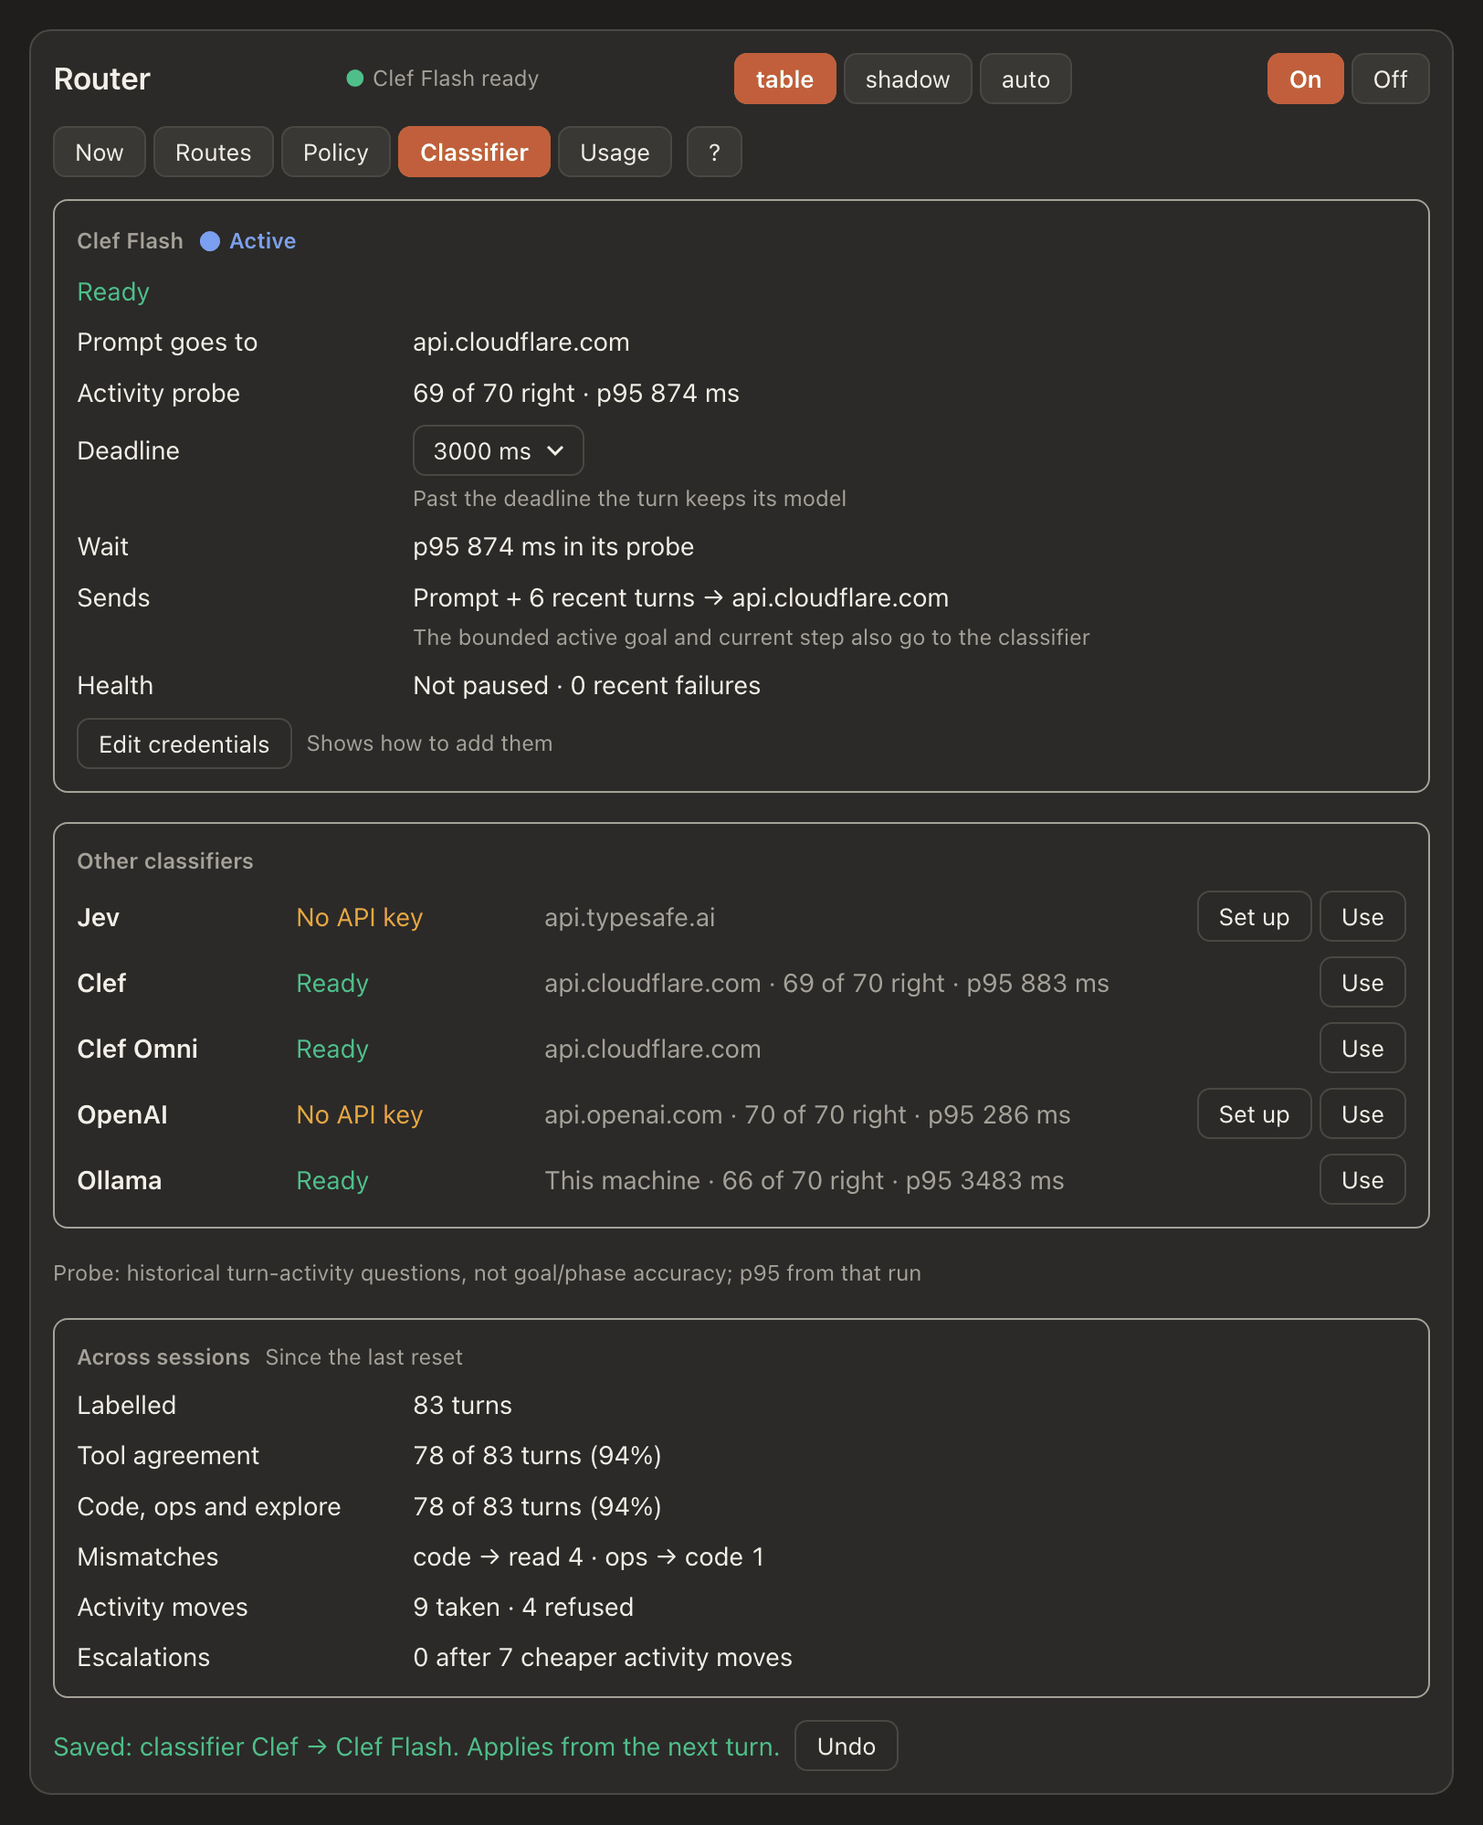
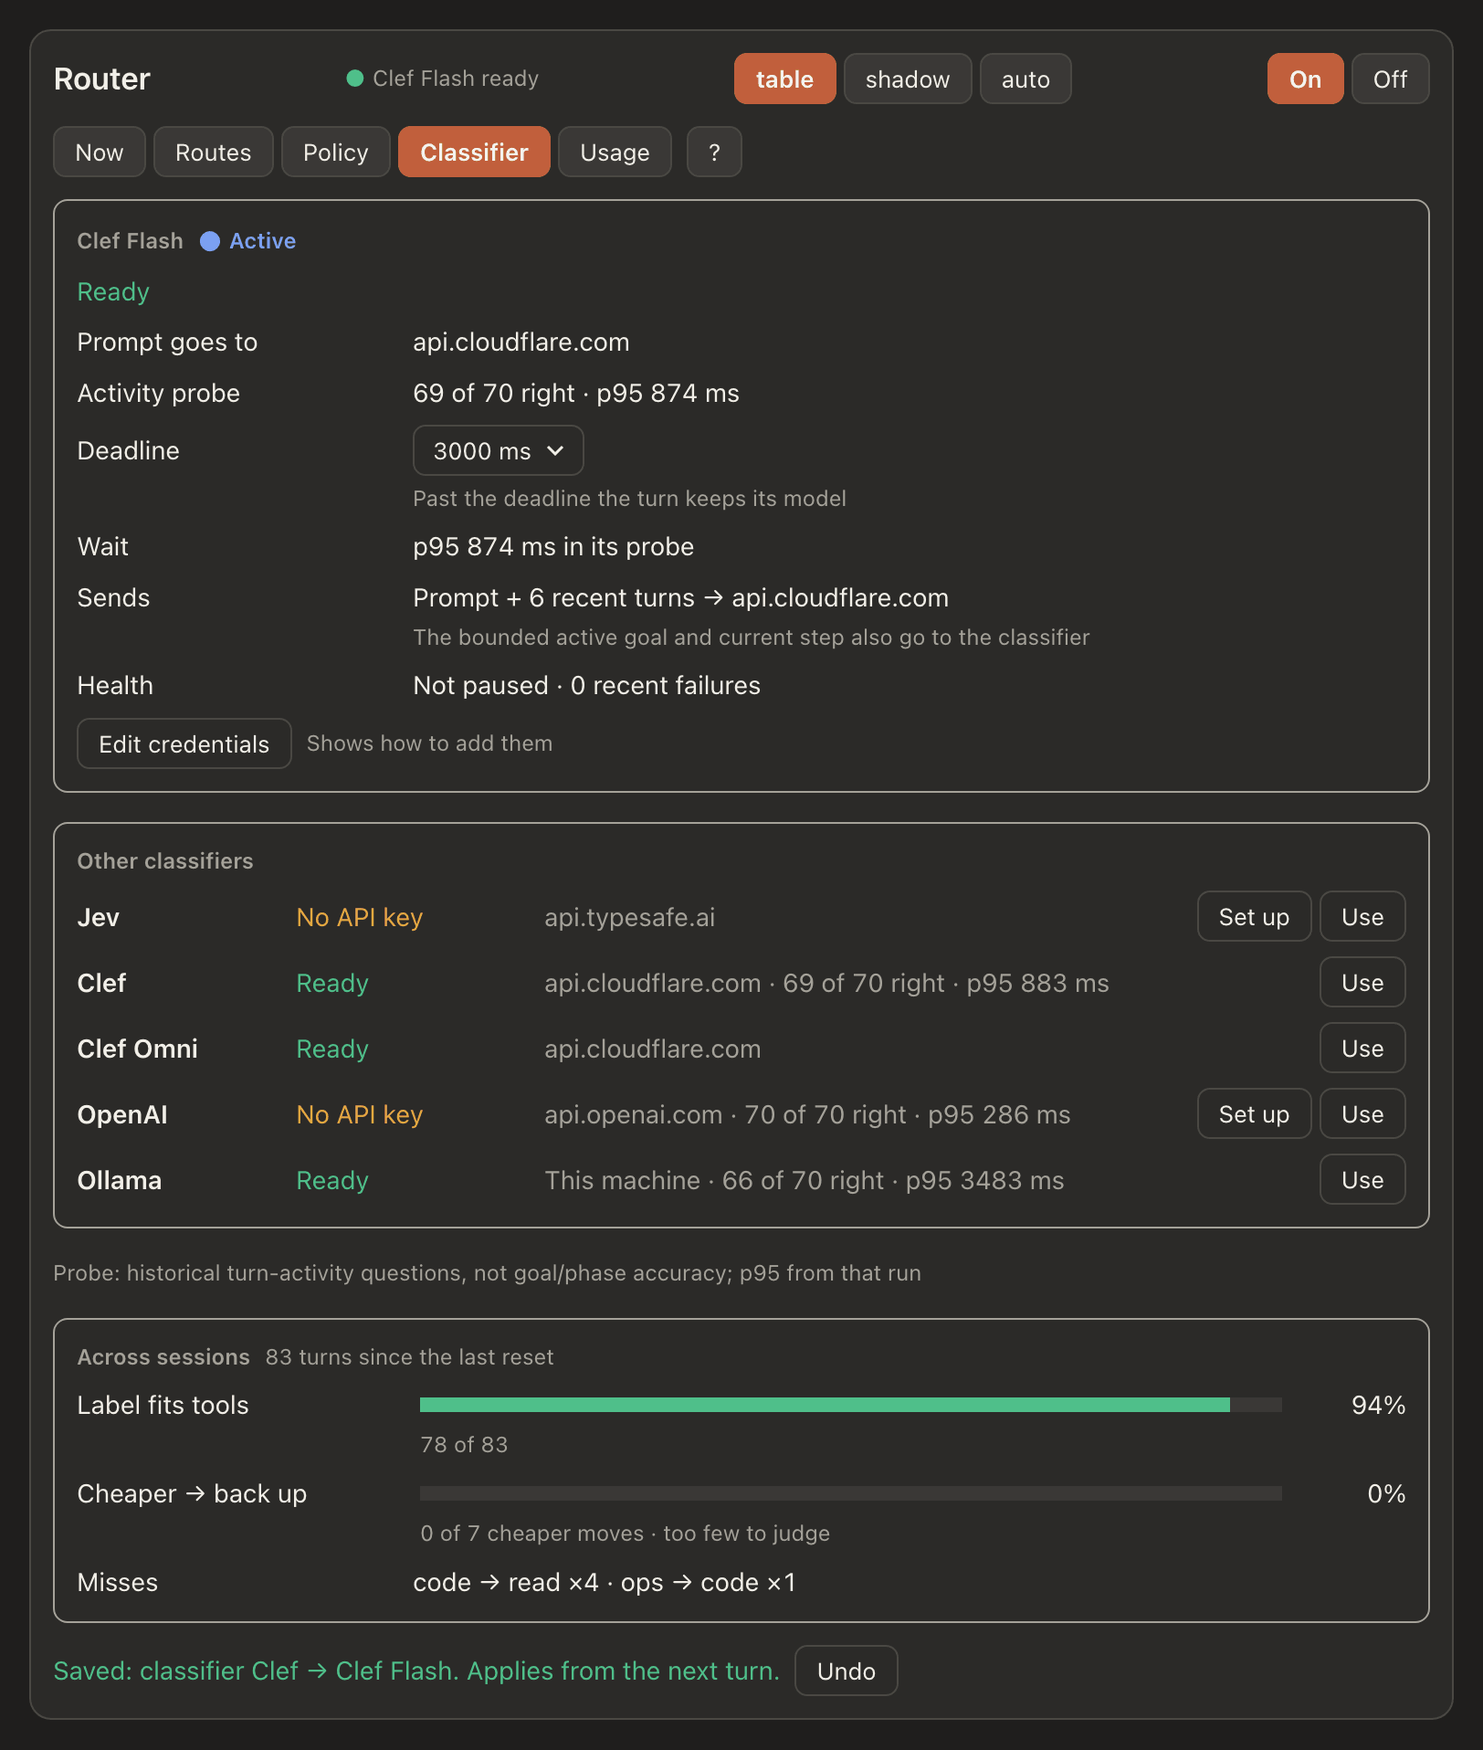
docs: describe the Across sessions bars
The guides and pictures named rows the pane no longer draws, and the code/ops/explore agreement that plan section 11 tracks is now read from the /router text.

diff --git a/docs/user-guide.md b/docs/user-guide.md
@@ -177,7 +177,7 @@ What each tab shows:
 
   <picture>
     <source media="(prefers-color-scheme: dark)" srcset="images/desktop-pane-classifier-dark.png">
-    <img src="images/desktop-pane-classifier-light.png" alt="The Classifier tab: a card for the active classifier with its host, deadline and health, a row per other classifier with Set up and Use buttons, and the agreement counts across sessions." width="560">
+    <img src="images/desktop-pane-classifier-light.png" alt="The Classifier tab: a card for the active classifier with its host, deadline and health, a row per other classifier with Set up and Use buttons, and bars across sessions for how often the label fits the tools and how often a cheaper move went back up." width="560">
   </picture>
 
 - **Usage**: period buttons, then Summary, Trend, Breakdown, Worth a look, Subagents, About these numbers and **Delete history**.
@@ -486,9 +486,15 @@ Not yet checked live: what `error_details` holds on a real failure (when it is p
 - **Now**: the first line of **NEXT TURN** names the classifier's activity with its share and the next answer, such as `code 84%  debug 8%`. An `uncertain` answer is shown dim: it applies no activity. In `on`, a line under it names the cell when the route is an override, such as `code at low runs on Sonnet 5.5 · high · tier route Haiku 5.5 · high`, and **why** reads `↑ code` or `↓ ops` when the activity moved the route; a refused move, a hold, or a tier change keeps its reason.
 - **Routes**: see [Edit routes and policy](#edit-routes-and-policy). Each activity is a row of the grid, and a cell shows the model the activity runs at that tier.
 - **Usage**: **BY** with **Activity** lists the period's replies, cost and difference against no routing per activity, and `mostly on`, the route most of its replies used, such as `Sonnet 5.5 · high`; opening a row lists its routes. Replies whose turn had no applied activity count as `no activity`. The **cache rebuilds** row counts the route switches by tier and by activity together. See [Compare routing with no routing](#compare-routing-with-no-routing).
-- **Classifier**: **THIS SESSION** gives **Tool compatibility (not accuracy)**, how often the tools fit the classifier's goal (see [Evaluation](evaluation.md#tool-agreement)).
+- **Classifier**: **Label fits tools** shows how often the tools a turn used fit the classifier's goal: a check of compatibility, not accuracy (see [Evaluation](evaluation.md#tool-agreement)). Before there are counts across sessions, **THIS SESSION** gives this session's figure as **Tool compatibility (not accuracy)**.
 
-On the **Classifier** tab, **ACROSS SESSIONS · since the last reset** shows the counts kept across sessions, once there are any: the turns labelled from their tools, **Tool compatibility** over them, **Code/ops/explore**, the same agreement over the turns the classifier answered `code`, `ops` or `explore` (omitted when there are none), the two most frequent mismatches as `predicted → observed count` (`code → read 3`), **Activity moves**, the moves to another route inside a tier, taken and refused for any reason, **Escalations**, such as `after a cheaper activity move: 1 in 12 moves`, the tool-error escalations that followed a move to a cheaper route in `on` while the turns stayed on it in `on` (turning routing off, a turn with routing off, or a turn in `off` ends the watch, a pin in between does not, and an escalation the credits cap held counts). Each of these lines appears only when it has data. The active classifier's p95 wait across sessions shows on its **Deadline** line instead (not recorded with activity routing `off`). This agreement compares the classifier's raw answer, so it can differ from the session's. The pane reads these counts when the session starts and when it opens, and adds this session's turns as they finish; another session's new latency and escalation readings show the next time the pane opens. **Delete history** on the Usage tab deletes these counts with the usage and subagent records, for this session and across sessions.
+On the **Classifier** tab, **ACROSS SESSIONS** shows the counts kept since the last reset, once there are any. Its heading says how many turns were labelled from their tools, such as `22 turns since the last reset`, and below it:
+
+- **Label fits tools**: the share of the turns the classifier answered with an activity whose tools fit it, as a bar, such as `80%  16 of 20 · this session 86%`. It compares the classifier's raw answer, so it can differ from this session's figure, shown once this session has a labelled turn. Green from 80%, yellow from 60%, red below.
+- **Cheaper → back up**: how many moves to a cheaper activity route in `on` were followed by a tool-error escalation while the turns stayed on that route in `on`, such as `8%  1 of 12 cheaper moves`. Turning routing off, a turn with routing off, or a turn in `off` ends the watch, a pin in between does not, and an escalation the credits cap held counts. Green up to 10%, yellow up to 25%, red above.
+- **Misses**: the two most frequent mismatches as `predicted → observed ×count` (`code → read ×3`).
+
+A bar with fewer than 10 turns or moves counted is grey and says `too few to judge`. Each row appears only when it has data. The active classifier's p95 wait across sessions shows on its **Deadline** line instead (not recorded with activity routing `off`). The pane reads these counts when the session starts and when it opens, and adds this session's turns as they finish; another session's new latency and escalation readings show the next time the pane opens. **Delete history** on the Usage tab deletes these counts with the usage and subagent records, for this session and across sessions.
 
 `/router` without a UI surface distinguishes `Goal: code (95%)`, `Phase: verify` and `Route activity: ops`, followed by the resolved route. It labels tool compatibility explicitly as not accuracy. Goal-contract counters start a separate series; pre-change turn-label counters remain stored but are excluded until **Delete history** removes them. It also prints the session in the band's words, such as `Session: ≈$6.40 API estimate · −$1.84 (−22%) vs Opus 5.5 ≈$8.24 · 64 replies`, after a `Plan: 5h 48% · 7d 43%` line on a Claude plan.
 

diff --git a/docs/native-router.md b/docs/native-router.md
@@ -53,7 +53,7 @@ In the terminal, the status band is one line above the prompt: a tier meter, the
 | Session (Now)                 | This session's total, main thread and subagents, labelled `API estimate` with `≈` for every billing product (configured rates, not an invoice or measured quota use), its difference against no routing and what no routing would cost, the main thread and the subagents as bars, and every main-conversation reply as a strip colored by tier, pairs of cells merging past 48 cells or on a narrow pane. The two-row band and `/router` show the same numbers.                                                                                                                                                          |
 | Routing vs no routing (Usage) | For a period (this session, today, 7 or 30 days, this month, or all), one table that adds up: the main thread against the same tokens on your model, the model `/model` selected at the session effort when each reply ran, with its cheaper-model saving, stronger-model cost and cache rebuilds; the subagents against Claude Code's picks; the total against no routing. The running turn's replies are included. Below 10 main-thread replies, a shown difference gets a note such as `3 replies so far: one model switch can still move this a lot`. Output length is held the same; answer quality is not measured. |
 | Breakdown (Usage)             | The period's replies, cost and difference against no routing by activity, model or tier, each row opening to its routes or activities; the cost per hour, day or week, or **What if**, the same tokens on each model alone; from 20 replies, the cells worth a look, linked to Routes or Policy.                                                                                                                                                                                                                                                                                                                          |
-| Across sessions (Classifier)  | The counts kept since the last reset: labelled turns, tool agreement on the classifier's raw answer, overall and for `code`, `ops` and `explore`, the two largest mismatches, activity moves inside a tier taken and refused, and escalations after a cheaper activity move. The active classifier's p95 latency shows on its **Deadline** line. `/router` text shows the agreement.                                                                                                                                                                                                                                      |
+| Across sessions (Classifier)  | The counts kept since the last reset, with the labelled turns in the heading: bars for how often the tools fit the classifier's raw answer and how often a cheaper activity move was followed by an escalation, each coloured by its verdict (grey below 10 counted), and the two largest mismatches. The active classifier's p95 latency shows on its **Deadline** line. `/router` text shows the agreement, also for `code`, `ops` and `explore`.                                                                                                                                                                       |
 | Context gauge                 | Maximum available observed and local estimated context, compared with the window of the model that runs next. The fit rule keeps a route only while the context fills at most 80% of its window.                                                                                                                                                                                                                                                                                                                                                                                                                          |
 | Observed / estimated input    | Under **details** on Now: Claude's local context reading and the router's best current context estimate. `unknown` blocks a move to a smaller window.                                                                                                                                                                                                                                                                                                                                                                                                                                                                     |
 | Cache reuse                   | Last response's cache-read tokens divided by its reported input counters.                                                                                                                                                                                                                                                                                                                                                                                                                                                                                                                                                 |

diff --git a/docs/evaluation.md b/docs/evaluation.md
@@ -382,7 +382,7 @@ The script writes aggregate counts, reason histograms, route transitions, and sh
 
 Goal/phase routing has no measured answer-quality or savings result. The activity contract changed from a turn's result to a task goal, so older goal/phase and tool-compatibility counts cannot be compared as one accuracy series. The results below are historical turn-label evidence, not evaluation of the new contract. The replay above predates it and covers tiers only. It is `on` by default since 1.7, with defaults chosen from Anthropic's published benchmarks and a list-price replay of one developer's sessions; [Activity routing](activity-routing.md#what-the-estimates-mean) gives that replay and its limits. The pane counts turns, requests, switches, and the turns `on` would route differently, with a configured list-price estimate of those turns' next requests, not a measured saving. Two checks look at the classifier's activity label.
 
-The figures plan §11 tracks (tool agreement of at least 80% on `code` against `ops` and `explore`, Jev p95 latency of at most 450 ms, at most 1 tool-error escalation in 10 cheaper activity moves, the number of activity switches) are read from the Classifier tab's **ACROSS SESSIONS** block, which shows the counts kept since the last reset: **Code/ops/explore** for the tool agreement on turns the classifier answered `code`, `ops` or `explore`, **Tool compatibility** and **Mismatch** for all of them, **Activity moves** for moves inside a tier taken and refused (a refusal by a hold or the credits cap included), **Escalations** for the tool-error escalations that followed a cheaper activity move in `on` while the turns stayed on its route in `on` (turning routing off, a turn with routing off, or a turn in `off` ends the watch, a pin in between does not, and an escalation the credits cap held counts), **Unpriced** for the routed replies the usage record left out, by cause: no usage in the reply, a model without a configured price, an unknown cache lifetime, or a failed comparison. Before 1.16 those replies were dropped without a count, so usage covered only the priced part of the routed traffic, and a session whose replies were all unpriced left no usage record at all. The active classifier's p95 wait is on its **Deadline** line on the same tab, above that block. Latency is kept in fixed buckets, so the p95 reads as a bound (`≤ 350 ms`); it is the wait for the classifier's answer, transient retries included, without the routing after it, so it compares with the probe's p95 below, and is not recorded with activity routing `off`. `/router` without a UI surface prints both agreements. The underlying counts are the per-session `activity:goals:v1:<session id>` and `activity:metrics:v1:<session id>` records described in [Architecture](architecture.md).
+The figures plan §11 tracks (tool agreement of at least 80% on `code` against `ops` and `explore`, Jev p95 latency of at most 450 ms, at most 1 tool-error escalation in 10 cheaper activity moves, the number of activity switches) are read from the counts kept since the last reset. On the Classifier tab's **ACROSS SESSIONS** block, **Label fits tools** gives the tool agreement over all turns the classifier answered with an activity, **Misses** its largest mismatches, and **Cheaper → back up** the tool-error escalations that followed a cheaper activity move in `on` while the turns stayed on its route in `on` (turning routing off, a turn with routing off, or a turn in `off` ends the watch, a pin in between does not, and an escalation the credits cap held counts); and **Unpriced** the routed replies the usage record left out, by cause: no usage in the reply, a model without a configured price, an unknown cache lifetime, or a failed comparison. Before 1.16 those replies were dropped without a count, so usage covered only the priced part of the routed traffic, and a session whose replies were all unpriced left no usage record at all. The agreement on turns the classifier answered `code`, `ops` or `explore` is in the text `/router` prints without a UI surface, as `code/ops/explore`. The activity switches are counted on the Usage tab, in the **cache rebuilds** row with the tier switches. The active classifier's p95 wait is on its **Deadline** line on the Classifier tab, above that block. Latency is kept in fixed buckets, so the p95 reads as a bound (`≤ 350 ms`); it is the wait for the classifier's answer, transient retries included, without the routing after it, so it compares with the probe's p95 below, and is not recorded with activity routing `off`. The underlying counts are the per-session `activity:goals:v1:<session id>` and `activity:metrics:v1:<session id>` records described in [Architecture](architecture.md).
 
 ### Tool agreement
 

diff --git a/docs/activity-routing.md b/docs/activity-routing.md
@@ -289,8 +289,8 @@ Limits:
 
 - The answer quality of routed sessions.
 - How well the classifier labels real turns. On 70 synthetic prompts, Jev (`jev-1.13.0`, not the current default) and OpenAI labelled all 70 right; see
-  [Evaluation](evaluation.md#activity-probe-set). The **Tool compatibility** lines, on the
-  Classifier tab for this session and across sessions, check your own turns against the tools they used.
+  [Evaluation](evaluation.md#activity-probe-set). The **Label fits tools** bar on the Classifier tab, with this
+  session's figure beside it, checks your own turns against the tools they used.
 - Whether an effort change on the same model always keeps the cache. Claude Code's prompt-caching docs say it does on
   Fable 5.1 and later and the 5.5 models with an API key or a subscription, and the router prices it so. On 2026-11-11 we counted
   104 such changes with under 270 seconds between requests in 30 days of Claude Code transcripts, main thread only, up

diff --git a/CHANGELOG.md b/CHANGELOG.md
@@ -1,5 +1,11 @@
 # Changelog
 
+## Unreleased
+
+### Changed
+
+- **Across sessions is easier to read.** On the Classifier tab it is now two bars with a coloured verdict: **Label fits tools** (green from 80%, yellow from 60%, with this session's figure beside it) and **Cheaper → back up**, the cheaper moves followed by an escalation (green up to 10%, yellow up to 25%), then the commonest **Misses**. A bar with fewer than 10 counted is grey and says "too few to judge". The labelled turns moved into the heading, and **THIS SESSION** and the card's **Tool agreement** show only before there are counts across sessions. The **Code/ops/explore** and **Activity moves** rows left the pane; `/router` text still gives the `code/ops/explore` agreement.
+
 ## 1.33.0 (2026-11-26)
 
 ### Summary
